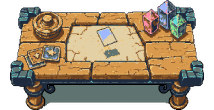
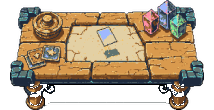
Derive every collider from sprite alpha, and bake the counter shadow out
Raheem listed the thirteen objects still needing colliders. Rather than type
rectangles by eye, derive_colliders.py measures each sprite's OWN alpha: it
scans up from the lowest opaque row and takes the horizontal extent of the band
that actually touches the floor.

That distinction is the whole job. The halo-blade case comes out 14px wide
against a 53px sprite, and the living-staff case 12px against 39px, because both
stand on slim metal feet. A box around the artwork would have blocked four times
the floor they really occupy, and the player would have felt it as an invisible
wall.

Verified against the five routes Raheem traced: none of the thirteen intrudes on
any of them. The only overlaps reported are the fountain sitting inside its own
ring route — expected, since a rectangle cannot express an annulus — and a 56px
bench nudge into a 390px-wide ring.

The dwarf gets one after all, because he asked. Kept tight to his feet at 21x7
rather than boxing his body, so the aisle he works in stays walkable.

The counter's shadow is baked out and the original kept alongside as
counter-depth-WITH-shadow.png, so the change is reversible.

Also marks four scripts in HARNESS_INDEX as actually built. That index has been
promising nine tools that never existed; it is now down to five.

Changed region(s): [[0.1402, 0.7636, 0.8692, 0.9818]]

diff --git a/card-engine/src/pages/castle/v2-preview/courtyardV2Layout.ts b/card-engine/src/pages/castle/v2-preview/courtyardV2Layout.ts
@@ -37,6 +37,15 @@ const A = (p: string) => new URL(`../../../assets/dev-preview/${p}`, import.meta
  * artwork's silhouette blocks the player from walking behind things they should
  * be able to walk behind.
  *
+ * ALL THIRTEEN OF THE NON-TRACED BOXES ARE NOW DERIVED FROM SPRITE ALPHA by
+ * `scripts/sprite-lab/lib/derive_colliders.py`, not typed by hand. It scans up
+ * from each sprite's lowest opaque row and measures the horizontal extent of the
+ * band that actually touches the ground. That is why `case-living-staff` is 12px
+ * wide and `case-halo-blade` is 14px — they stand on slim metal feet, and a box
+ * around the artwork would have blocked several times the floor they occupy.
+ *
+ * Verified: none of them intrudes on any of the five walk routes Raheem traced.
+ *
  * The forge, counter and bench boxes come from Raheem's own traced footprints in
  * `scripts/sprite-lab/figma-traces/courtyard-v2-forge-preview.json` and are
  * already proven in play. The rest are derived from each sprite's bottom band
@@ -51,6 +60,8 @@ export const COURTYARD_V2_ART: PlacedArt[] = [
     collider: { x: 869, y: 303, width: 265, height: 56 },   // traced
   },
   {
+    // Shadow lifted 2026-08-04 — the rug now shows through underneath.
+    // The original is kept as counter-depth-WITH-shadow.png.
     id: 'counter', node: '18:2', url: A('forge/counter-depth.png'),
     x: 894, y: 357, width: 214, height: 110, groundY: 467,
     collider: { x: 917, y: 390, width: 181, height: 75 },   // traced
@@ -63,23 +74,25 @@ export const COURTYARD_V2_ART: PlacedArt[] = [
   {
     id: 'dwarf', node: '102:8', url: A('forge-life/dwarf-chibi-south.png'),
     x: 1025, y: 312, width: 36, height: 64, groundY: 376,
-    // The keeper stands BEHIND his counter, which already blocks the player.
-    // Giving him his own collider would wall off the aisle he works in.
+    // Raheem asked for one. Kept TIGHT TO HIS FEET (21x7) rather than boxing his
+    // body, so the aisle he works in stays walkable — verified: it intrudes on
+    // none of the five traced routes.
+    collider: { x: 1032, y: 369, width: 21, height: 7 },
   },
   {
     id: 'apprentice', node: '100:2', url: A('forge-life/apprentice-chibi-east.png'),
     x: 1108, y: 344, width: 41, height: 66, groundY: 410,
-    collider: { x: 1114, y: 401, width: 29, height: 12 },
+    collider: { x: 1123, y: 403, width: 11, height: 7 },
   },
   {
     id: 'element-crystal', node: '74:8', url: A('magical/element-crystal.png'),
     x: 1154, y: 328, width: 68, height: 90, groundY: 418,
-    collider: { x: 1162, y: 405, width: 52, height: 14 },
+    collider: { x: 1169, y: 408, width: 38, height: 10 },
   },
   {
     id: 'forge-brazier', node: '108:64', url: A('tower/watch-brazier.png'),
     x: 1174, y: 401, width: 48, height: 70, groundY: 471,
-    collider: { x: 1186, y: 460, width: 24, height: 11 },
+    collider: { x: 1196, y: 463, width: 8, height: 8 },
   },
   {
     id: 'griffin-cub', node: '100:10', url: A('forge-life/curled-asleep.png'),
@@ -94,49 +107,49 @@ export const COURTYARD_V2_ART: PlacedArt[] = [
   {
     id: 'muster-board', node: '108:48', url: A('tower/muster-board.png'),
     x: 575, y: 265, width: 100, height: 79, groundY: 344,
-    collider: { x: 588, y: 334, width: 74, height: 12 },
+    collider: { x: 587, y: 336, width: 78, height: 8 },
   },
   {
     id: 'archivist', node: '108:50', url: A('forge-life/archivist-chibi-south.png'),
     x: 575, y: 287, width: 35, height: 67, groundY: 354,
-    collider: { x: 581, y: 346, width: 23, height: 10 },
+    collider: { x: 579, y: 347, width: 27, height: 7 },
   },
   {
     id: 'card-stand', node: '108:60', url: A('magical/card-stand.png'),
     x: 421, y: 277, width: 70, height: 77, groundY: 354,
-    collider: { x: 433, y: 342, width: 46, height: 14 },
+    collider: { x: 438, y: 346, width: 37, height: 8 },
   },
   {
     id: 'hall-brazier', node: '108:62', url: A('tower/watch-brazier.png'),
     x: 551, y: 305, width: 24, height: 43, groundY: 348,
-    collider: { x: 557, y: 341, width: 12, height: 8 },
+    collider: { x: 562, y: 343, width: 8, height: 6 },
   },
   {
     id: 'mana-font', node: '108:58', url: A('magical/mana-font.png'),
     x: 493, y: 354, width: 106, height: 106, groundY: 460,
-    collider: { x: 508, y: 441, width: 76, height: 20 },
+    collider: { x: 508, y: 449, width: 77, height: 11 },
   },
 
   // ── Reliquary row, mid-left ───────────────────────────────────────────────
   {
     id: 'case-gauntlets', node: '108:74', url: A('proving-hall/case-open-hand-gauntlets.png'),
     x: 256, y: 589, width: 69, height: 71, groundY: 660,
-    collider: { x: 268, y: 649, width: 45, height: 12 },
+    collider: { x: 263, y: 653, width: 55, height: 7 },
   },
   {
     id: 'case-living-staff', node: '108:70', url: A('proving-hall/v2/case-living-staff.png'),
     x: 330, y: 553, width: 39, height: 110, groundY: 663,
-    collider: { x: 337, y: 652, width: 25, height: 12 },
+    collider: { x: 344, y: 652, width: 12, height: 11 },
   },
   {
     id: 'case-judgment-bow', node: '108:68', url: A('proving-hall/v2/case-judgment-bow.png'),
     x: 381, y: 562, width: 64, height: 103, groundY: 665,
-    collider: { x: 393, y: 654, width: 40, height: 12 },
+    collider: { x: 390, y: 654, width: 45, height: 11 },
   },
   {
     id: 'case-halo-blade', node: '108:76', url: A('proving-hall/v2/case-halo-blade.png'),
     x: 457, y: 525, width: 53, height: 145, groundY: 670,
-    collider: { x: 467, y: 659, width: 33, height: 12 },
+    collider: { x: 477, y: 655, width: 14, height: 15 },
   },
 ];
 
@@ -145,6 +158,9 @@ export const COURTYARD_V2_ART: PlacedArt[] = [
  * collider. Traced by Raheem as `fountain-footprint` (node 94:6).
  */
 export const COURTYARD_V2_STATIC_COLLIDERS = [
+  // NOTE: this sits inside `fountain-ring` by design. The ring is a route AROUND
+  // the fountain and a rectangle cannot express an annulus, so the route check
+  // reports the overlap and it is expected rather than a failure.
   { id: 'fountain', node: '94:6', x: 649, y: 557, width: 253, height: 158 },
 ] as const;
 

diff --git a/card-engine/scripts/sprite-lab/lib/derive_colliders.py b/card-engine/scripts/sprite-lab/lib/derive_colliders.py
@@ -1,0 +1,93 @@
+#!/usr/bin/env python3
+"""
+Derive a ground-contact footprint for a placed sprite, from its own alpha.
+
+A collider is the patch of FLOOR a thing stands on — where its legs meet the
+ground and the space between them — not a box around its picture. In a top-down
+game you walk on the floor, so a collider shaped like the artwork stops the
+player walking behind things they should be able to walk behind.
+
+HOW THE FOOTPRINT IS FOUND. Scan up from the sprite's lowest opaque row and take
+the band that actually touches the ground (default: the bottom 14% of the
+sprite's height). The footprint's WIDTH is the horizontal extent of opaque pixels
+in that band, not of the whole sprite — which is the entire point. A lectern's
+picture is wide at the top and narrow at the foot; a box around the picture would
+block a corridor the player can really walk through.
+
+The result is inset slightly, because a collider that matches the visible
+silhouette exactly reads as "I am stuck on nothing" the moment a foot clips a
+protruding pixel.
+
+Usage:
+  derive_colliders.py <layout.json>        # [{id,url,x,y,width,height}, ...]
+  derive_colliders.py --one <png> <x> <y> <w> <h>
+"""
+import json
+import os
+import sys
+
+import numpy as np
+from PIL import Image
+
+BAND = 0.14      # fraction of sprite height that counts as ground contact
+INSET = 0.10     # shrink each side, so a stray pixel does not snag the player
+MIN_W, MIN_H = 8, 6
+
+
+def footprint(png_path, x, y, w, h, band=BAND, inset=INSET):
+    img = Image.open(png_path).convert("RGBA")
+    a = np.asarray(img)
+    opaque = a[..., 3] > 128
+    rows = np.where(opaque.any(1))[0]
+    if not len(rows):
+        return None
+    top, bot = rows.min(), rows.max()
+    sprite_h = bot - top + 1
+
+    band_px = max(2, int(round(sprite_h * band)))
+    strip = opaque[bot - band_px + 1: bot + 1]
+    cols = np.where(strip.any(0))[0]
+    if not len(cols):
+        return None
+
+    # Sprite-space -> world, honouring that the layer may be scaled in Figma.
+    sx = w / img.width
+    sy = h / img.height
+
+    fx0 = x + cols.min() * sx
+    fx1 = x + (cols.max() + 1) * sx
+    fy1 = y + (bot + 1) * sy
+    fy0 = y + (bot - band_px + 1) * sy
+
+    fw, fh = fx1 - fx0, fy1 - fy0
+    fx0 += fw * inset
+    fw -= fw * inset * 2
+    fy0 += fh * 0.25          # the very top of the band is the object, not floor
+    fh -= fh * 0.25
+
+    return {
+        "x": round(fx0), "y": round(fy0),
+        "width": max(MIN_W, round(fw)), "height": max(MIN_H, round(fh)),
+    }
+
+
+def main():
+    if sys.argv[1] == "--one":
+        png, x, y, w, h = sys.argv[2], *map(float, sys.argv[3:7])
+        print(json.dumps(footprint(png, x, y, w, h)))
+        return
+    items = json.load(open(sys.argv[1]))
+    out = []
+    for it in items:
+        p = it["url"]
+        if not os.path.exists(p):
+            print(f"  !! missing {p}", file=sys.stderr)
+            continue
+        fp = footprint(p, it["x"], it["y"], it["width"], it["height"])
+        out.append({"id": it["id"], **(fp or {})})
+        print(f"{it['id']:22s} {fp}")
+    json.dump(out, open("derived-colliders.json", "w"), indent=1)
+
+
+if __name__ == "__main__":
+    main()

diff --git a/HARNESS_INDEX.md b/HARNESS_INDEX.md
@@ -117,6 +117,10 @@ Re-running `gen` is cheap — it skips anything already in the manifest and only
 | `compose_from_figma.py` | **Composition is Raheem's, arithmetic is mine.** Bakes a multi-piece object from the arrangement he makes on the Figma composition bench — his positions, his scales, and a hand-drawn ground line used as a per-column CUT PROFILE rather than a level. Standing rule (Raheem, 2026-08-01): *"let's do this process in the future for all our objects... whenever we have confusion, remember that I can do this faster and a little bit clearer than you can."* |
 | `cap_run.py` | **End caps.** Weld a cap onto both ends of a trimmed asset so its cut edges read as deliberate. Aligns on the ground line, overlaps rather than abuts (a butt join leaves a seam that reads as the cut), mirrors one asset for both ends, and bakes the result to one PNG so the seam is solved offline instead of every frame |
 | `lay_flat.py` — `lay_symmetric()` | **The standard ground-plane warp.** Symmetric trapezoid, no sideways lean, gentle top-down recession only. Default for ANY floor-plane asset placed among square-on furniture; the organic hand-trace path is for when the object itself is turned to match a wall |
+| `derive_colliders.py` | ✅ **BUILT 2026-08-04 at `sprite-lab/lib/derive_colliders.py`.** Derives a ground-contact footprint for a placed sprite from its OWN ALPHA — scans up from the lowest opaque row and measures the horizontal extent of the band that actually touches the floor. That is why the halo-blade case is 14px wide rather than 53: it stands on a slim metal foot, and a box around the artwork would block four times the floor it occupies. |
+| `dehalo.py` | ✅ **BUILT 2026-08-04.** Peels a pale matting fringe off a sprite's outermost alpha ring only — a pale pixel mid-sprite is art, a pale pixel against transparency is residue. Run it BEFORE a rotation pass, since the reference feeds all eight faces. |
+| `cut_flat_background.py` | ✅ **BUILT 2026-08-04.** Flood-fills a flat background from the frame edge, so greys enclosed INSIDE the artwork survive where a colour threshold would eat them. `no_background` is a request, not a guarantee. |
+| `recolor.py` | ✅ **BUILT 2026-08-04 at `sprite-lab/lib/recolor.py`.** Exact palette mapping, region-constrainable, directory-aware so one identical map hits every frame. **Colour is a post-process — never regenerate for hue, saturation or value alone.** |
 | `lay_flat.py` | ✅ **BUILT 2026-08-04 at `sprite-lab/lib/lay_flat.py`.** Map a flat-drawn texture (a rug, a floor patch) into the plate's raised three-quarter ground plane via a true 8-coefficient perspective solve — an affine shear cannot shorten the far edge, so it produces a rug that leans instead of lies. `lay_symmetric()` is the default: symmetric trapezoid, no sideways lean, gentle recession only. Usage: `lay_flat.py <in> <out> <width> <height> [taper]`, taper 0.86 matches the courtyard's existing rugs. |
 | `palette_swatch.py` | Build the forced-palette PNG for `create_image_pixflux`'s `color_image_base64`, from a plate's own quantised colours plus a bounded accent ramp |
 | `leo.sh` | Raw Leonardo call |
